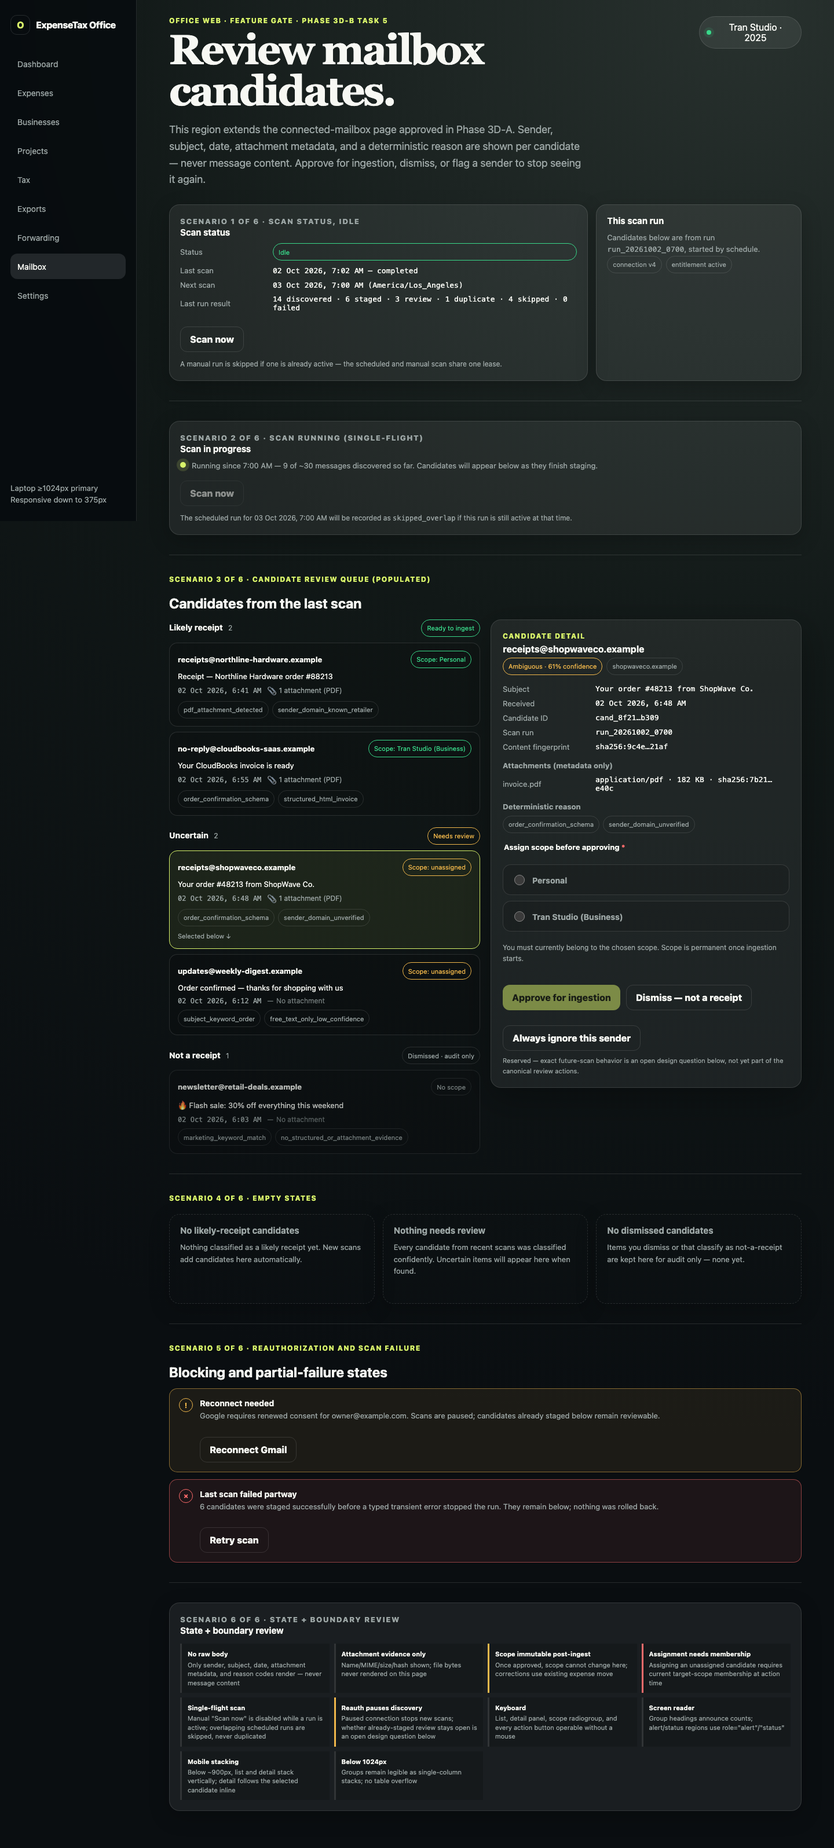
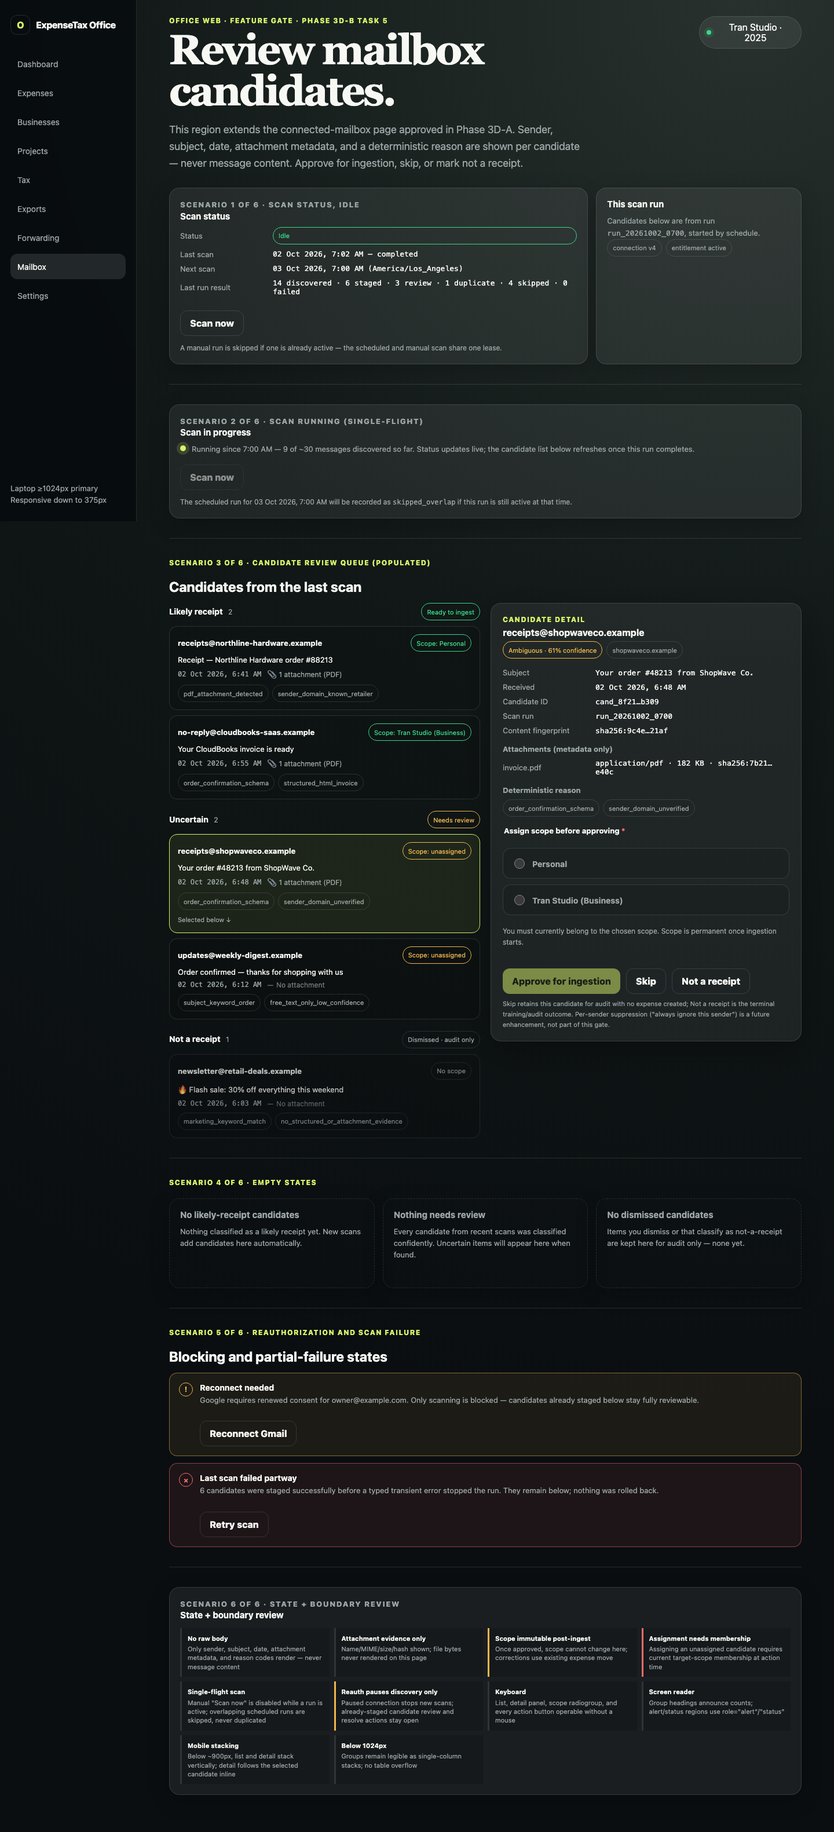
docs(mockups): apply owner decisions to Office mailbox review gate, approve
(cherry picked from commit 376f61776fa0cce02733d3a6a35f8bcd4d520244)

diff --git a/expense-tax-management/plans/mockups/office-mailbox-review/review.html b/expense-tax-management/plans/mockups/office-mailbox-review/review.html
@@ -32,7 +32,7 @@
       <div>
         <p class="eyebrow">Office Web · feature gate · Phase 3D-B Task 5</p>
         <h1>Review mailbox candidates.</h1>
-        <p class="lede">This region extends the connected-mailbox page approved in Phase 3D-A. Sender, subject, date, attachment metadata, and a deterministic reason are shown per candidate — never message content. Approve for ingestion, dismiss, or flag a sender to stop seeing it again.</p>
+        <p class="lede">This region extends the connected-mailbox page approved in Phase 3D-A. Sender, subject, date, attachment metadata, and a deterministic reason are shown per candidate — never message content. Approve for ingestion, skip, or mark not a receipt.</p>
       </div>
       <button class="profile"><span class="dot"></span> Tran Studio · 2025</button>
     </div>
@@ -63,7 +63,7 @@
         <h2 id="s2-heading">Scan in progress</h2>
         <div class="oauth-row">
           <span class="spinner-dot" aria-hidden="true"></span>
-          <p style="margin:0">Running since 7:00 AM — 9 of ~30 messages discovered so far. Candidates will appear below as they finish staging.</p>
+          <p style="margin:0">Running since 7:00 AM — 9 of ~30 messages discovered so far. Status updates live; the candidate list below refreshes once this run completes.</p>
         </div>
         <button class="button secondary" type="button" disabled aria-disabled="true" title="A scan is already running">Scan now</button>
         <p class="lede" style="margin:12px 0 0;font-size:12px">The scheduled run for 03 Oct 2026, 7:00 AM will be recorded as <span class="value">skipped_overlap</span> if this run is still active at that time.</p>
@@ -191,10 +191,10 @@
 
           <div class="action-row">
             <button class="button" type="button" disabled aria-disabled="true" title="Choose a scope above to enable approval">Approve for ingestion</button>
-            <button class="button secondary" type="button">Dismiss — not a receipt</button>
-            <button class="button secondary" type="button" aria-describedby="ignore-sender-note">Always ignore this sender</button>
+            <button class="button secondary" type="button">Skip</button>
+            <button class="button secondary" type="button">Not a receipt</button>
           </div>
-          <p id="ignore-sender-note" class="lede" style="margin:8px 0 0;font-size:11px">Reserved — exact future-scan behavior is an open design question below, not yet part of the canonical review actions.</p>
+          <p class="lede" style="margin:8px 0 0;font-size:11px">Skip retains this candidate for audit with no expense created; Not a receipt is the terminal training/audit outcome. Per-sender suppression ("always ignore this sender") is a future enhancement, not part of this gate.</p>
         </aside>
       </div>
     </section>
@@ -226,7 +226,7 @@
         <span class="icon" aria-hidden="true">!</span>
         <div>
           <h3>Reconnect needed</h3>
-          <p>Google requires renewed consent for owner@example.com. Scans are paused; candidates already staged below remain reviewable.</p>
+          <p>Google requires renewed consent for owner@example.com. Only scanning is blocked — candidates already staged below stay fully reviewable.</p>
           <button class="button secondary" type="button">Reconnect Gmail</button>
         </div>
       </div>
@@ -252,7 +252,7 @@
           <div class="state" style="--state:var(--warning)"><strong>Scope immutable post-ingest</strong>Once approved, scope cannot change here; corrections use existing expense move</div>
           <div class="state" style="--state:var(--danger)"><strong>Assignment needs membership</strong>Assigning an unassigned candidate requires current target-scope membership at action time</div>
           <div class="state"><strong>Single-flight scan</strong>Manual "Scan now" is disabled while a run is active; overlapping scheduled runs are skipped, never duplicated</div>
-          <div class="state" style="--state:var(--warning)"><strong>Reauth pauses discovery</strong>Paused connection stops new scans; whether already-staged review stays open is an open design question below</div>
+          <div class="state" style="--state:var(--warning)"><strong>Reauth pauses discovery only</strong>Paused connection stops new scans; already-staged candidate review and resolve actions stay open</div>
           <div class="state"><strong>Keyboard</strong>List, detail panel, scope radiogroup, and every action button operable without a mouse</div>
           <div class="state"><strong>Screen reader</strong>Group headings announce counts; alert/status regions use role="alert"/"status"</div>
           <div class="state"><strong>Mobile stacking</strong>Below ~900px, list and detail stack vertically; detail follows the selected candidate inline</div>

diff --git a/expense-tax-management/plans/mockups/office-mailbox-review/NOTES.md b/expense-tax-management/plans/mockups/office-mailbox-review/NOTES.md
@@ -10,9 +10,9 @@ Source: local `review.html` (standalone, no build step) + `review.css` (feature-
 
 1. **Scan status, idle** — status chip, last/next scan, prior run's counts (discovered/staged/review/duplicate/skipped/failed per `MailboxScanRunV1`), manual "Scan now".
 2. **Scan running (single-flight)** — `role="status" aria-live="polite"` progress line, "Scan now" disabled with a `title` explaining why, and a note that an overlapping scheduled run would be recorded `skipped_overlap` rather than started twice.
-3. **Candidate review queue, populated** — candidates grouped by `MailboxCandidateClassification` (`receipt` → "Likely receipt", `ambiguous` → "Uncertain", `not_receipt` → "Not a receipt"). Each row shows sender address + domain, bounded subject, received date, an attachment indicator (count + MIME family, never content), and reason-code chips drawn from the candidate's `evidence` array — no message body anywhere. A selected uncertain candidate opens a detail panel with full fields (candidate/scan-run IDs, content-hash fingerprint, attachment manifest metadata, classification/confidence, reason chips), a required scope-assignment radiogroup (disabled "Approve for ingestion" until chosen, same disabled-until-valid pattern as the 3D-A Connect button), "Dismiss — not a receipt", and "Always ignore this sender" (flagged as reserved/open, see below).
+3. **Candidate review queue, populated** — candidates grouped by `MailboxCandidateClassification` (`receipt` → "Likely receipt", `ambiguous` → "Uncertain", `not_receipt` → "Not a receipt"). Each row shows sender address + domain, bounded subject, received date, an attachment indicator (count + MIME family, never content), and reason-code chips drawn from the candidate's `evidence` array — no message body anywhere. A selected uncertain candidate opens a detail panel with full fields (candidate/scan-run IDs, content-hash fingerprint, attachment manifest metadata, classification/confidence, reason chips), a required scope-assignment radiogroup (disabled "Approve for ingestion" until chosen, same disabled-until-valid pattern as the 3D-A Connect button), "Skip" (maps to `skip`), and "Not a receipt" (maps to `not_receipt`).
 4. **Empty states** — one empty card per classification group ("No likely-receipt candidates", "Nothing needs review", "No dismissed candidates"), `role="status"`.
-5. **Reauthorization / partial-scan-failure** — reused `.banner.warn`/`.banner.bad` pattern from the 3D-A gate: reconnect-needed (scans paused, already-staged candidates stay reviewable) and a partial-failure banner reflecting the design's "per-message failures do not roll back successful candidates" rule.
+5. **Reauthorization / partial-scan-failure** — reused `.banner.warn`/`.banner.bad` pattern from the 3D-A gate: reconnect-needed (only scanning is blocked; already-staged candidates stay fully reviewable) and a partial-failure banner reflecting the design's "per-message failures do not roll back successful candidates" rule.
 6. **State + boundary review** — no-raw-body, attachment-evidence-only, scope-immutable-post-ingest, assignment-needs-target-scope-membership, single-flight scan, keyboard, screen reader, and mobile-stacking notes.
 
 No real email addresses, message bodies, or personal data: synthetic senders/subjects only (`shopwaveco.example`, `northline-hardware.example`, etc.), matching the "never full email bodies" requirement and the design spec's stored-fields list (sender address/domain, bounded subject, content hash, attachment manifest name/MIME/size/SHA-256 — no raw MIME/HTML/body).
@@ -21,18 +21,21 @@ No real email addresses, message bodies, or personal data: synthetic senders/sub
 
 - Group headings are real `<h3>` elements with a visible count; status/alert regions use `role="status"` / `role="alert"` matching the 3D-A gate's convention.
 - The scope-assignment control is a native `<fieldset>`/`role="radiogroup"` with per-option `<label>` wrapping, reusing `.scope-option` from `mailbox.css`.
-- "Approve for ingestion" is `disabled`/`aria-disabled="true"` with an explanatory `title` until a scope is chosen; "Always ignore this sender" carries an `aria-describedby` note explaining its reserved status rather than being a silently dead control.
+- "Approve for ingestion" is `disabled`/`aria-disabled="true"` with an explanatory `title` until a scope is chosen.
 - Candidate rows are `<article>` elements with `aria-labelledby` pointing at the sender; the selected row carries `aria-current="true"`.
 - All controls are real `<button>`/`<input>` elements, ≥44px touch target per shared tokens.
 
-## Open design questions (owner input needed before implementation)
+## Owner decisions (approved 2026-10-03)
 
-1. **"Always ignore this sender" is not a canonical review action.** The design spec's review-action set is `ingest` / `skip` / `not_receipt` / `retry` (`docs/superpowers/specs/2026-09-12-phase-3d-connected-mailbox-design.md`, "Review actions"). The task brief asks for an "always-ignore-sender" decision, which implies a persistent per-sender suppression rule affecting *future* scans — that entity doesn't exist in the canonical B contracts (`MailboxCandidateOutcomeV1`, `MailboxCandidateStatus`). Mockup shows it as a reserved/disabled-feeling action with an inline note. **Decision needed:** is this in scope for 3D-B's implementation, a 3D-C+ follow-up, or should it simply map to `not_receipt` (dismiss) with no sender-level memory?
-2. **Does "dismiss" in the task brief mean `skip` or `not_receipt`?** Both exist in the canonical action set with different audit semantics (`skip`: retain metadata/audit, no expense; `not_receipt`: terminal training/audit outcome). Mockup uses one "Dismiss — not a receipt" button mapped to `not_receipt`. **Decision needed:** does the implementation need a separate `skip` affordance distinct from "not a receipt," or does the Office UI only ever expose one dismissal action?
-3. **Reason-code vocabulary.** The design spec defines `evidence` as `readonly string[]` with no fixed enum. This mockup invents plausible deterministic codes (`pdf_attachment_detected`, `order_confirmation_schema`, `sender_domain_unverified`, etc.) for illustration. **Decision needed:** does Task 5's classifier need a fixed, documented reason-code catalog (for consistent copy/i18n), or is free-form evidence text acceptable in Office?
-4. **Streaming vs. batch refresh during an active scan.** Scenario 2 implies candidates "appear below as they finish staging." **Decision needed:** does the Office candidate list poll/refresh live during a running scan, or does it only update once the run completes (`GET .../:connectionId/candidates` called again by the user)?
-5. **Review access while reauth is required.** The reconnect-needed banner here claims already-staged candidates "remain reviewable." The design spec says a reauth-required connection pauses *scans*; it does not explicitly state whether existing candidate review/resolve actions stay available. **Decision needed:** confirm review/resolve stays open during `reauth_required`, or should the whole queue go read-only until reconnected?
-6. **List pagination pattern.** The existing Office duplicates-review page (`frontend/office-web/src/app/(office)/duplicates/page.tsx`) uses a cursor + "Load more" button with a shared `aria-busy` toolbar. This mockup shows one bounded page per group for layout clarity. **Decision needed:** should the real candidate list reuse that exact load-more pattern per classification group, or paginate the queue as a whole?
+1. **"Always ignore this sender" — deferred.** Not a canonical review action (`ingest`/`skip`/`not_receipt`/`retry` only; no per-sender suppression entity in the canonical B contracts). Removed from this mockup. Recorded as a future enhancement, not part of 3D-B's implementation scope.
+2. **Dismiss splits into two actions.** "Skip" maps to `skip` (retain metadata/audit, no expense — use for "not now"). "Not a receipt" maps to `not_receipt` (terminal training/audit outcome). Both shown as separate buttons in the detail panel.
+3. **Running-scan refresh is batch, not streaming.** Only scan *status* (the Scenario 2 progress line) polls/updates live. The candidate list refreshes once the run completes (`GET .../:connectionId/candidates` re-called then), not per-message.
+4. **Reauthorization blocks scanning only.** Already-staged candidates stay fully reviewable (review/resolve actions remain available) while a connection is `reauth_required`; only new scan starts are blocked.
+
+## Decisions made consistent with the 3D-B plan/spec and the duplicates page
+
+5. **Reason-code vocabulary: fixed catalog.** The design spec's classifier is explicitly deterministic (versioned rules: attachment checks, JSON-LD/microdata, structured HTML, subject/sender keywords) even though `evidence` is typed as `readonly string[]` with no enum in the wire contract. A fixed, documented reason-code catalog (the `snake_case` codes already used in this mockup — `pdf_attachment_detected`, `order_confirmation_schema`, `sender_domain_unverified`, `sender_domain_known_retailer`, `structured_html_invoice`, `subject_keyword_order`, `free_text_only_low_confidence`, `marketing_keyword_match`, `no_structured_or_attachment_evidence`) keeps classifier output machine-checkable in tests and copy/i18n-stable in Office, matching "deterministic" intent better than ad hoc free text. Task 5's classifier module should export this catalog as a typed union/const, not accept arbitrary strings.
+6. **Pagination: reuse the duplicates page's cursor + "Load more" pattern, per classification group.** The existing Office duplicates-review page (`frontend/office-web/src/app/(office)/duplicates/page.tsx`) already establishes the project's review-queue pagination convention: a cursor-based `nextCursor`, a `Load more` button disabled during any in-flight action, and a shared `aria-busy`/`aria-live` status line. Candidates are grouped by classification for review triage, so each group gets its own cursor and "Load more" rather than one flat list — consistent with the existing single-queue pattern but scoped per group to keep triage order stable as new pages load.
 
 ## Sources
 

diff --git a/expense-tax-management/plans/mockups/office-mailbox-review/REVIEW.md b/expense-tax-management/plans/mockups/office-mailbox-review/REVIEW.md
@@ -2,38 +2,39 @@
 
 - Prepared: 2026-10-03
 - Scope: `review.html`, `review.css`, `review-mobile-375.png`, `review-tablet-768.png`, `review-desktop-1440.png`, `NOTES.md`
-- **Status: Pending owner approval**
+- **Status: Approved**
+- Verdict: **Approved by Toby Tran on 2026-10-03**, as drafted, with the decisions below.
 
 ## What this covers
 
-Office Web `/mailbox` candidate-review region, extending the approved Phase 3D-A base (`../office-mailbox/`) per the Phase 3D-B plan Task 5: scan status/schedule with single-flight manual "Scan now," a candidate list grouped by classification (likely receipt / uncertain / not a receipt) with sender, subject, date, attachment indicator, and deterministic reason codes, a candidate detail panel with scope assignment and approve-for-ingestion / dismiss / always-ignore-sender decisions, empty states per group, reauthorization-needed and partial-scan-failure states, and an explicit Personal-vs-business scope indication on every candidate.
+Office Web `/mailbox` candidate-review region, extending the approved Phase 3D-A base (`../office-mailbox/`) per the Phase 3D-B plan Task 5: scan status/schedule with single-flight manual "Scan now," a candidate list grouped by classification (likely receipt / uncertain / not a receipt) with sender, subject, date, attachment indicator, and deterministic reason codes, a candidate detail panel with scope assignment and approve-for-ingestion / skip / not-a-receipt decisions, empty states per group, reauthorization-needed and partial-scan-failure states, and an explicit Personal-vs-business scope indication on every candidate.
 
 ## Design/mockup only
 
 No application code was written or modified. This folder contains static HTML/CSS and PNG renders only, per `../README.md`'s conventions. `frontend/office-web` was read for interaction-pattern reference (the duplicates review page) but not edited.
 
-## Open design questions (owner decision needed before implementation)
+## Owner decisions (2026-10-03)
 
-1. **"Always ignore this sender"** is not one of the canonical review actions in the design spec (`ingest`/`skip`/`not_receipt`/`retry`). Is a persistent per-sender suppression rule in scope for 3D-B, deferred to a later phase, or should this control be removed in favor of plain dismissal?
-2. **Dismiss mapping** — does the Office "Dismiss" action map to `not_receipt` (terminal, shown here) or does the UI also need a separate `skip` ("not now" without the terminal training signal)?
-3. **Reason-code vocabulary** — should Task 5's classifier emit from a fixed, documented catalog of reason codes, or is free-form `evidence` text acceptable to render directly in Office?
-4. **Live vs. batch candidate list refresh** while a scan is running — poll during the run, or only refresh once the run completes?
-5. **Review access during `reauth_required`** — confirm already-staged candidates stay reviewable while reconnection is pending, or should the queue go fully read-only?
-6. **Pagination pattern** — reuse the existing duplicates-review cursor + "Load more" pattern per classification group, or paginate the whole queue?
+1. **"Always ignore this sender" — deferred.** Not a canonical review action in the design spec. Removed from the mockup and recorded as a future enhancement, out of scope for 3D-B's implementation.
+2. **Dismiss splits into two actions.** "Skip" (maps to `skip`: retain metadata/audit, no expense) and "Not a receipt" (maps to `not_receipt`: terminal training/audit outcome) are separate buttons in the detail panel.
+3. **Running-scan refresh is batch, not streaming.** Only scan status polls live; the candidate list refreshes once the run completes.
+4. **Reauthorization blocks scanning only.** Already-staged candidates stay fully reviewable while a connection is `reauth_required`; only new scan starts are blocked.
+5. **Reason-code vocabulary: fixed catalog** (decided consistent with the spec's deterministic classifier and documented in `NOTES.md`).
+6. **Pagination: reuse the duplicates page's cursor + "Load more" pattern, per classification group** (decided consistent with the existing Office review-queue convention; documented in `NOTES.md`).
 
-Full detail and sourcing for each question is in `NOTES.md`.
+Full rationale and sourcing for decisions 5–6 is in `NOTES.md` → "Decisions made consistent with the 3D-B plan/spec and the duplicates page".
 
 ## Sign-off checklist
 
-- [ ] Covers scan status/schedule, single-flight manual scan, grouped candidate list, candidate detail with decision actions, empty states, error/reauth state, and explicit Personal/business scope indication.
-- [ ] Desktop (1440) and mobile (375) renders present; tablet (768) included as a bonus third viewport.
-- [ ] Accessible roles/labels on every interactive control and status region (see `NOTES.md` → Accessibility).
-- [ ] No real email addresses, message bodies, or personal data.
-- [ ] Visual language matches the approved Office shell and the 3D-A mailbox gate (`../office-mailbox/mailbox.css`, `../rebaseline/shared/tokens.css` reused, not duplicated).
-- [ ] Open design questions above answered or explicitly deferred with an owner decision.
-- [ ] Human reviewer (Toby Tran) approves scope, action set, and open-question resolutions.
+- [x] Covers scan status/schedule, single-flight manual scan, grouped candidate list, candidate detail with decision actions, empty states, error/reauth state, and explicit Personal/business scope indication.
+- [x] Desktop (1440) and mobile (375) renders present; tablet (768) included as a bonus third viewport.
+- [x] Accessible roles/labels on every interactive control and status region (see `NOTES.md` → Accessibility).
+- [x] No real email addresses, message bodies, or personal data.
+- [x] Visual language matches the approved Office shell and the 3D-A mailbox gate (`../office-mailbox/mailbox.css`, `../rebaseline/shared/tokens.css` reused, not duplicated).
+- [x] All open design questions resolved and recorded (see Owner decisions above and `NOTES.md`).
+- [x] Human reviewer (Toby Tran) approved scope, action set, and all decisions — 2026-10-03.
 
 ## Evidence
 
-- 3 PNG renders generated via `npx playwright screenshot --full-page` (headless Chromium, Playwright 1.63.0), 2026-10-03.
-- Manual visual check of all three renders: grouped candidate list and detail panel split two-column on desktop and stack to one column at and below 900px; state-review grid collapses from 4 to 2 columns at 820px via existing shared tokens; no raw message content, real addresses, or personal data anywhere on the page.
+- 3 PNG renders regenerated via `npx playwright screenshot --full-page` (headless Chromium, Playwright 1.63.0) after the 2026-10-03 decision changes (always-ignore-sender removed; Skip/Not-a-receipt split; scan-running and reauth copy updated).
+- Manual visual check of all three renders: three detail-panel action buttons (Approve for ingestion / Skip / Not a receipt) fit on one row at desktop and stack cleanly on mobile; no stray reference to "always ignore this sender" remains on the page; reauth banner reads "Only scanning is blocked."

diff --git a/expense-tax-management/plans/mockups/README.md b/expense-tax-management/plans/mockups/README.md
@@ -47,6 +47,6 @@ Every folder now carries `mobile-375.png`, `tablet-768.png`, `desktop-1440.png`,
 ## Feature-Specific Gates
 
 - [x] **Office mailbox gate -> Phase 3D-A Task 4**: connect/account/status/schedule/reviewer base for the connected-Gmail mailbox page; 1440/768/375 renders. **Approved by Toby Tran on 2026-10-03** — explicit scope choice required (no preselected radio, Connect disabled until chosen), Mailbox nav stays between Forwarding/Settings, `/mailbox` usable on mobile (no Capture hand-off). Candidate-review placeholder sizing deferred to Phase 3D-B. See `office-mailbox/REVIEW.md` and `office-mailbox/NOTES.md`.
-- [ ] **Office mailbox review gate -> Phase 3D-B Task 5**: candidate review queue extending the same `/mailbox` page — scan status/schedule, single-flight manual scan, candidate list grouped by classification, candidate detail with approve/dismiss/always-ignore-sender decisions, empty/error/reauth states, explicit Personal/business scope indication; 1440/768/375 renders. **Status: pending owner approval**, open design questions listed. See `office-mailbox-review/REVIEW.md` and `office-mailbox-review/NOTES.md`.
+- [x] **Office mailbox review gate -> Phase 3D-B Task 5**: candidate review queue extending the same `/mailbox` page — scan status/schedule, single-flight manual scan, candidate list grouped by classification, candidate detail with approve/skip/not-a-receipt decisions, empty/error/reauth states, explicit Personal/business scope indication; 1440/768/375 renders. **Approved by Toby Tran on 2026-10-03** — always-ignore-sender deferred as a future enhancement, dismiss split into Skip/Not a receipt, scan-running refresh is batch not streaming, reauth blocks scanning only (staged candidates stay reviewable). See `office-mailbox-review/REVIEW.md` and `office-mailbox-review/NOTES.md`.
 
 > Historical note: 30 legacy PNGs passed structural checks on 2026-09-06. That evidence does not approve the new three-application architecture.
